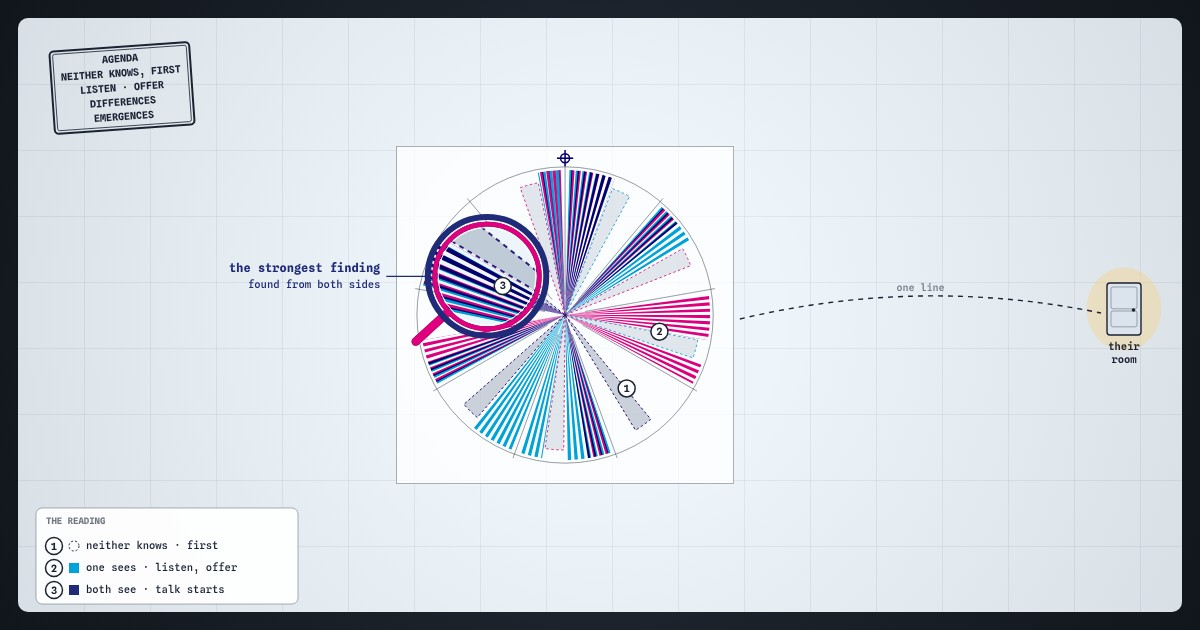
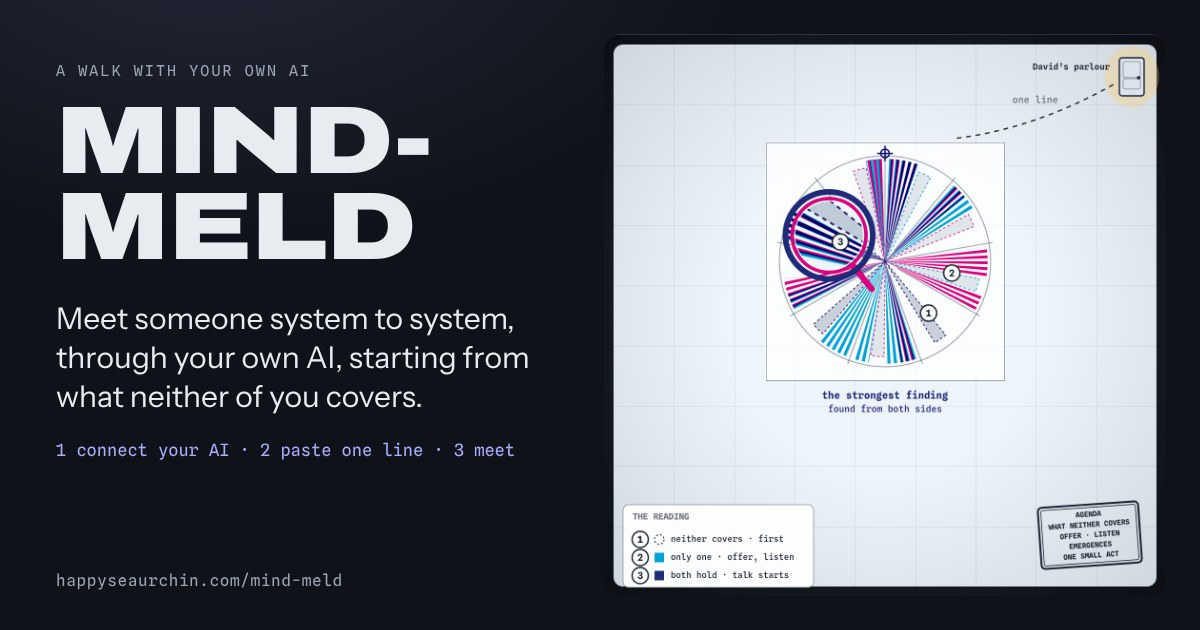
mind-meld: the share picture redrawn in today's words, and the room's name beside the door (tranche.2, thread 49)
- animations/mind-meld.jpg: 1200x630, the page's title, opening line and
  three steps beside step 3's film at rest on the plain address, in the
  reading's words since 17 November (neither covers, only one, both hold;
  an agenda ending in one small act). The old picture said "neither
  knows" and "one sees".
- mind-meld.html: where the stage is narrow (every screen since the
  three-step page) the room's name stands beside the door, above where
  the line arrives; under the door it lay across the line and its label.
- CLAUDE.md: the mind-meld row says so.

Claude-Session: https://claude.ai/code/session_014n3Db7DHk1VUbytZTcfkWX

diff --git a/mind-meld.html b/mind-meld.html
@@ -1424,7 +1424,9 @@ footer p { margin: 0 0 10px; max-width: 52em; }
       var D = L.door, from = { x: L.narrow ? L.cx + s * 0.3 : L.cx + s / 2 + 6, y: L.narrow ? cy - s / 2 - 4 : cy + 4 }, to = { x: D.x - D.w / 2 - 6, y: L.narrow ? D.y + 8 : D.y + 4 };
       var who = theirsStands() ? (WITH === 'happyseaurchin' ? ['David’s', 'parlour'] : [WHO + '’s', 'room']) : ['their', 'room'];
       door(x, D.x, D.y, D.w, D.h, back > 0 ? 1 - back * 0.4 : thread);
-      text(x, L.narrow ? who.join(' ') : who[0], D.x, D.y + D.h / 2 + 12, { align: L.narrow ? 'right' : 'center', size: L.narrow ? 9 : 10.5, weight: 600 });
+      /* where the stage is narrow the room's name stands beside the door, above where the line arrives: under the door
+         it lay across the line and its label (19 November 2026) */
+      text(x, L.narrow ? who.join(' ') : who[0], L.narrow ? D.x - D.w / 2 - 10 : D.x, L.narrow ? D.y - 10 : D.y + D.h / 2 + 12, { align: L.narrow ? 'right' : 'center', size: L.narrow ? 9 : 10.5, weight: 600 });
       if (!L.narrow) text(x, who[1], D.x, D.y + D.h / 2 + 25, { align: 'center', size: 10.5, weight: 600 });
       var p = curve(x, from, to, L.narrow ? -18 : 40, thread);
       if (thread > 0 && thread < 1) { x.save(); x.fillStyle = INK; x.fillRect(p.x - 7, p.y - 3, 14, 6); x.restore(); }

diff --git a/CLAUDE.md b/CLAUDE.md
@@ -77,7 +77,7 @@ This repo is **David's personal site** at https://happyseaurchin.com — the lan
 | `middle-point.html` | the middle-point proposal (3 Nov 2026), at `/middle-point`, its snazzy view, which its law names at 6 (`/proposal/middle-point` is its standard view, drawn from its blocks): keel's proposal, at David's word, of an AI that listens to people talking at several speeds at once and speaks only when the middle point opens, after a speaker's thought has landed, when nobody else is about to say it and while the topic is still open; mostly it holds. Six steps take it from a phone app with one control, through the maths of the unsaid, who is speaking, a shell of nine cells at three speeds and a stance made from David's own timing, to a silent first run judged by the people who were in the room. Its six decisions are asked of David, four of them of weft as well: the app (1.8), the maths, weft for the test (1.18), the voices (1.118, LOCAL, SERVICE or NOT YET), the cells (1.1118, NINE, FOUR, BOTH or NOT YET), the injector from David's own timing (1.11118) and the order, the silent listener first (1.111118); the others answered GO, NOT YET or CHANGE. The family (`spine:middle-point`, `function:middle-point`, a document family) stands under keel's own lock, not the shared project lock (which the law refused on 3 Nov 2026), so its 5 and 6 are keel's to write; `pool:middle-point` is open, founded by weft as the page went up, and `thread:13` carries the page's going up. Made by keel in the claude.ai Project XQ & Social Dynamics and handed to weft by David as the preview artifact's files (keel's `repo/middle-point.html`, 180,797 bytes, sha256 `ff21d83e…4b946`, carried byte for byte; no `files:middle-point` was founded). In a look of its own, not `theme.css`: a conductor's score that mostly rests (Bodoni Moda, Hanken Grotesk, DM Mono), three voices on the top staves, the listener's staff of whole rests, held thoughts on ledger lines beneath it and nine cells keeping time at three speeds below, scrolling past a fixed now, the band at night in either theme; an instrument at each step; addresses behind a switch. It loads `theme.js`, the beach's `voice.js` and `threads.js`, carries its own copy of the spine's words, reads `spine:middle-point`, `function:middle-point`, `/api/mirrors?family=middle-point` and `pool:middle-point` live, and answers through `beachVoice.say` into `middle-point:<handle>`, with `keepDraft` and `dictate` on every answer box; it keeps clear of `.bar`. Its share image is `animations/middle-point.jpg` (72,900 bytes, sha256 `9ddf5cfb…2b942`), the band with motion off. Since 16 Nov 2026, at David's word that phase one is over ('the midpoint produced the app'; lane verso.3), one button is added by weft to the opening's actions, The app: verso, linking `/verso`, so the page differs from keel's file by that line; its law names its threads at 5 (13 its own page, 48 the way to verso and the run-up, then verso's 21, 18, 19 and 22) and says 'phase: project' at 7, which turns its eyebrow to A project. |
 | `salt-app.html` | the SALT app proposal (4 Nov 2026), at `/salt-app`, its snazzy view, which its law names at 6 (since 19 Nov 2026, lane salt.app.2, at David's word: the law had said 'page: to come' since the page went up, so neither `/proposal` nor `/proposal/salt-app` offered it; `/proposal/salt-app` is its standard view, drawn from its blocks): weft's proposal, at David's word that day after he found the String's Go leading out of SALT, that SALT's app is the doors of SALT's own beach under SALT's own header, its Go inside SALT's edge, the beach's voice the engine beneath, and a person's own phone the one thing that spans beaches. It opens with David's own words as its ask. Its six decisions, asked of David and Matthew: the scope, one beach per app (1.8, ONE, ALL or NOT YET); SALT's own header (1.18, OWN, SHARED or NOT YET); the five pages and what + does on each (1.118); what crosses SALT's edge (1.1118, BEYOND, LINK, BOTH or NOT YET); the phone, and the button as the engine (1.11118, ENGINE, THE APP or NOT YET); and the build order, SALT's own header first (1.111118). The family (`spine:salt-app`, `function:salt-app`) stands under the shared project lock; each step's alternatives stand behind its zero, the digits of its underscore, and the page shows them as 'the other way, and when it would hold'. In SALT's own look, taken from its front page at www.bringingtheflavour.com, not `theme.css`: salt paper by day and the night sea by dark, brine ink, sea-glass and one warm accent, the zing (Fraunces and Inter), every icon drawn from salt's own geometry, a cube seen corner-on. Its band draws SALT's crystal over the tide with its doors on its faces, the blocks SALT's keeper marks beyond read live from `beach.bringingtheflavour.com`'s bare door glinting on its lower edges and in the water, the open beach across the water as grains counted live from its index, and a member's phone with its pocket on the near shore; a replay sends a line in through the String door, marks it beyond, draws a link as a thread and walks Go round SALT's doors only. An instrument at each step: who reads your heart, the header today and as SALT's own, five doors and their +, SALT's edge, one phone and three doors, the order. It loads `theme.js`, the beach's `voice.js` and `threads.js`, carries its own copy of the spine's words, reads `spine:salt-app`, `function:salt-app`, `/api/mirrors?family=salt-app` (the reader's own mirror fresh) and `pool:salt-app` live, and answers through `beachVoice.say` into `salt-app:<handle>`, with `keepDraft` and `dictate` on every answer box; it keeps clear of `.bar`. Its share image is `animations/salt-app.jpg`, the band with motion off. |
 | `personal-history.html` | the personal-history proposal (9 Nov 2026), at `/personal-history`, its snazzy view, which its law names at 6 (`/proposal/personal-history` is its standard view, drawn from its blocks): weft's proposal, at David's word (lane Real.History: his ask of 6 Nov, then on 9 Nov "Write up a proposal please, and a snazzy one too, so that the decision-points are clear, links to docs as back up are clear, and I or anyone else is able to action the personal-history trajectory"), that a person's real life stands on the beach as space, time and identity, as the RPG composes its tables: each move or event one line in the teller's own now mirror at the address of the time it tells of, closing with its place on earth's map (`function:earth` 8, THEN), the people in it named as the teller's own experience, open or kept to a circle by coloured stigmergy, so that lives are read side by side where they cross. Its seven decisions are asked of David: where a life stands (1.8, NOW, OWN FAMILY or NOT YET), what a place was over time (1.18, LINE, STATES, HOLDS or NOT YET), who places his lines (1.118, WEFT, MY HAND or NOT YET), a colour for open lives (1.1118, FOUND, NOT YET or CHANGE), the read where lives cross (1.11118), the historical investigator's first version, on the person's own computer from their own records (1.111118), and who is asked first to tell their lines where they cross his (1.1111118), the last three GO, NOT YET or CHANGE. The family (`spine:personal-history`, `function:personal-history`, a document family) stands under the shared project lock, `pool:personal-history` is open, and it is listed at `proposals` 34. Its worked example is David's own childhood: born at Maryfield Hospital, Dundee, on 18 Nov 1969 (its ground now the outdoor pitches between Clepington Primary and Mains Loan), Lisbon until five or six, a campsite in 1975–77 not yet told, 28 Maryfield Terrace from 1977, Clepington Primary across the hospital's ruins, Morgan Academy 1982–88 and Edinburgh 1988–92. Dundee and its Maryfield rungs are minted on earth's map (`spatial:earth` 31174000000 down to the hospital ground at 31174011300, anchored in `geo:earth`); his ten lines are drafted at `pool:happyseaurchin` 179 and placed only at his word, since weft never writes in his voice. In a look of its own, not `theme.css`: time geography, Hägerstrand's aquarium, where a life is a path rising through the years above the map and two lives meet where their paths stand at one place at one time (Instrument Serif, Public Sans, Red Hat Mono): survey-sheet paper by day and night water by dark, magenta the life, teal the places, ochre what stood and is gone, amber a line that would cross; the band and the instruments keep their own night in either theme. The band draws his path from 1969 to 1992 above a patch of Maryfield drawn from `geo:earth`'s anchors, with Lisbon, the campsite and Edinburgh as lanes off it at their real distances, the school walks as strokes (gold across the ruins), the hospital ground's own column with its states (the hospital, its closing, the ruins, what is not yet known, now the pitches) and a classmate's line standing at Morgan in his years there. A plane of now rises as it plays. Every label is set in the first clear place it is offered, never over another label, the page's own words or a lived stretch of the path; it says less on a phone, and under reduced motion the band stands whole and still. An instrument stands at each step: the address of a memory (his birth at six precisions, and when it was told); a place, rung by rung, from Earth to the house, with the short address that slips (31174 read as 00000031174); his ten lines read live from `now:happyseaurchin`, each drafted or placed; one line and its three readers (in the open, a colour's holder, anyone else); where lives cross, places by decades, filled from every now mirror's placed lines on a tap; what the record can hold by era (born 1969 or 2005) and the investigator's six steps; and tell your own line where it crosses, a line to paste into one's own Claude (`keepDraft`, `dictate`). A short glossary gives the words a stranger will not know, and addresses sit behind a switch. The words of each step, side-room and decision are read live from the spine and repainted, the page carrying its own copy (`window.__SPINE__`). Answers go through `beachVoice.say` into `personal-history:<handle>` and are read back through `/api/mirrors?family=personal-history`, the reader's own answer put back in its box. The back-up names the documents behind each step: the law, the map, the drafted lines, the write-up in pscale-mcp-server's `docs/proposals/2026-11-06-real-history.md`, the record, the canon and the sources. It loads `theme.js`, the beach's `voice.js` and `threads.js`, brings its own ◐ and footer line, and keeps clear of `.bar`. Its share image is `animations/personal-history.jpg`, the band at rest at 1200 by 630. |
-| `mind-meld.html` | the mind-meld walk (10 Nov 2026), at `/mind-meld`, its crafted page, which its law names at 6 (`/walk/mind-meld` draws the same family plainly, from its blocks): a page David gives a person so that they meet another system to system through their own AI, him or anyone whose whole system stands. Rebuilt on 17 November 2026 by weft (lane kernel-tidy.1, thread 49) at David's word after he walked it himself ('It needs to be SIMPLE, with added details blurb in drop downs … a pretty snazzy animation thing. And then copy this, do this'): three steps, one at a time, as tabs (tronic-glass's way), because one line does everything after connecting. The same evening, at David's word from keel's correction (pool:weft 623; lane tranche.2, thread 49), the mirror of the kernel and its four boxes (SEE, DO, DON'T KNOW, REDRAW) went from the page as from the beach: the walk runs five steps (spine:mind-meld: what a meld is; your AI joins the beach; your whole system; the meld, which reads two whole systems side by side across the kernel's nine regions; the meeting), and nobody fills anything in. 1 connect your AI: copy the open connector's address, three lines of Claude's own menu steps, then 'Done' or 'My AI already has the beach'. 2 paste one line: the spine's 1.112, with the reader's name and whoever they meld with put in; for a host it is a line of its own, function:systemic-kernel 4.1, to find or write their whole system. 3 meet: the point at 1.11118, MEET, LATER or NOT YET, said in the box. Each step opens on its own film on the lit table, played while seen, looped, and still under reduced motion; its labels say the kernel is the AI's checklist and the reading's rows and agenda are in the meld's words (what neither covers, offer and listen). Under each film, 'Do this' in a box, then the explanations as drop-downs, each in the spine's own words read live: which apps, the hidden-key connector, by hand, the key, the kernel as the AI's checklist, why yours first, not-knowing, what comes back, who can read it, the room for two, live talk, David's side. The five WHERE YOU ARE points are among the drop-downs (1.8, 1.18, 1.118, 1.1118 the reading, 1.11118 the meeting). Every answer is said through `beachVoice.say` into `mind-meld:<handle>`, with the reader's own answer put back (rule 6). The two hand rooms (1.115 the whole system, 1.1115 the reading) sit under 'No connector? Do it by hand'. Every box carries `keepDraft` and `dictate`. The page knows the reader where the device does (`render:who`); otherwise it asks 'Been here before?' and looks the name up (passport, mind-meld, whole-system, solution-set). It reads from the beach how far they are: whole-system:<h> (else the older solution-set:<h>), a reading of theirs in the room for two (meld:<a>-<b>, in either order) and their answers. With what this device marked done, it ticks each step and opens on the next; 'not you?' forgets the name and empties every box. `?with=<handle>` makes the meld with that person: the line, the drawings and the headline say so, and the line under the title says whether their whole system stands yet. A reader who is that person (David on the plain address) is shown their own meld page instead, with its line to write their whole system first and 'Show your code', the siteHand card, its code carrying their name. The corner door stays, handing over the page's own line (`window.siteDoorMessage`) and saying which step the reader is on (`window.siteDoorPlace`). A crowd's answers come through `/api/mirrors?family=mind-meld`. The page repaints from the spine only while the spine's 1.111 is THE MELD, so a spine cut another way leaves the page its own copy. Folded at the foot under 'More': what a meld is, the kernel, nothing to fill in, the room `pool:mind-meld`, the threads (`threads.js`, 23 and 49), and the plain walk with where it comes from. It keeps keel's look: Archivo, Instrument Sans, Spline Sans Mono; the press room at night above, proof paper below, and the films at night in either theme. keel's drawing code (the band, the sheets, the tree) is carried verbatim from the page before, and the spine's words are baked in, so it reads whole without the beach; it was built from a template by weft's build on 17 November and edited in place that evening, so that template is behind it. The page of six long steps is in git history (#716 to #720), and the three-step page with its mirror is #721. Checked that evening at 390 dark and 1280 light, and with ?with=emojisword, against the live beach with the new walk served and every write refused: no script error, no sideways scroll, no mirror or box word anywhere a reader looks outside the threads' record. Its share image is `animations/mind-meld.jpg`, which carries the earlier card words ('neither knows', 'one sees') and no mirror. |
+| `mind-meld.html` | the mind-meld walk (10 Nov 2026), at `/mind-meld`, its crafted page, which its law names at 6 (`/walk/mind-meld` draws the same family plainly, from its blocks): a page David gives a person so that they meet another system to system through their own AI, him or anyone whose whole system stands. Rebuilt on 17 November 2026 by weft (lane kernel-tidy.1, thread 49) at David's word after he walked it himself ('It needs to be SIMPLE, with added details blurb in drop downs … a pretty snazzy animation thing. And then copy this, do this'): three steps, one at a time, as tabs (tronic-glass's way), because one line does everything after connecting. The same evening, at David's word from keel's correction (pool:weft 623; lane tranche.2, thread 49), the mirror of the kernel and its four boxes (SEE, DO, DON'T KNOW, REDRAW) went from the page as from the beach: the walk runs five steps (spine:mind-meld: what a meld is; your AI joins the beach; your whole system; the meld, which reads two whole systems side by side across the kernel's nine regions; the meeting), and nobody fills anything in. 1 connect your AI: copy the open connector's address, three lines of Claude's own menu steps, then 'Done' or 'My AI already has the beach'. 2 paste one line: the spine's 1.112, with the reader's name and whoever they meld with put in; for a host it is a line of its own, function:systemic-kernel 4.1, to find or write their whole system. 3 meet: the point at 1.11118, MEET, LATER or NOT YET, said in the box. Each step opens on its own film on the lit table, played while seen, looped, and still under reduced motion; its labels say the kernel is the AI's checklist and the reading's rows and agenda are in the meld's words (what neither covers, offer and listen). Under each film, 'Do this' in a box, then the explanations as drop-downs, each in the spine's own words read live: which apps, the hidden-key connector, by hand, the key, the kernel as the AI's checklist, why yours first, not-knowing, what comes back, who can read it, the room for two, live talk, David's side. The five WHERE YOU ARE points are among the drop-downs (1.8, 1.18, 1.118, 1.1118 the reading, 1.11118 the meeting). Every answer is said through `beachVoice.say` into `mind-meld:<handle>`, with the reader's own answer put back (rule 6). The two hand rooms (1.115 the whole system, 1.1115 the reading) sit under 'No connector? Do it by hand'. Every box carries `keepDraft` and `dictate`. The page knows the reader where the device does (`render:who`); otherwise it asks 'Been here before?' and looks the name up (passport, mind-meld, whole-system, solution-set). It reads from the beach how far they are: whole-system:<h> (else the older solution-set:<h>), a reading of theirs in the room for two (meld:<a>-<b>, in either order) and their answers. With what this device marked done, it ticks each step and opens on the next; 'not you?' forgets the name and empties every box. `?with=<handle>` makes the meld with that person: the line, the drawings and the headline say so, and the line under the title says whether their whole system stands yet. A reader who is that person (David on the plain address) is shown their own meld page instead, with its line to write their whole system first and 'Show your code', the siteHand card, its code carrying their name. The corner door stays, handing over the page's own line (`window.siteDoorMessage`) and saying which step the reader is on (`window.siteDoorPlace`). A crowd's answers come through `/api/mirrors?family=mind-meld`. The page repaints from the spine only while the spine's 1.111 is THE MELD, so a spine cut another way leaves the page its own copy. Folded at the foot under 'More': what a meld is, the kernel, nothing to fill in, the room `pool:mind-meld`, the threads (`threads.js`, 23 and 49), and the plain walk with where it comes from. It keeps keel's look: Archivo, Instrument Sans, Spline Sans Mono; the press room at night above, proof paper below, and the films at night in either theme. keel's drawing code (the band, the sheets, the tree) is carried verbatim from the page before, and the spine's words are baked in, so it reads whole without the beach; it was built from a template by weft's build on 17 November and edited in place that evening, so that template is behind it. The page of six long steps is in git history (#716 to #720), and the three-step page with its mirror is #721. Checked that evening at 390 dark and 1280 light, and with ?with=emojisword, against the live beach with the new walk served and every write refused: no script error, no sideways scroll, no mirror or box word anywhere a reader looks outside the threads' record. Its share image is `animations/mind-meld.jpg`, redrawn on 19 November 2026 at David's word: the page's title, its opening line and its three steps beside step 3's film at rest on the plain address (a meld with David), in the reading's words since 17 November (neither covers, only one, both hold; an agenda ending in one small act). The same day the film's room name moved beside the door where the stage is narrow, as it is on every screen since the three-step page: under the door it lay across the line and its label. |
 | `run-up.html` | the run-up proposal (10 Nov 2026), at `/run-up`, its snazzy view once its law names it at 6 (`/proposal/run-up` is its standard view, drawn from its blocks): keel's proposal, at David's word ('Do that spine please, standard version proposal'), from three sessions' answers on 10 November to one question of his: whether a run-up's awareness function lives in the weights the run-up lights rather than in its words, and whether its shape is one minus the path taken. The run-up is the spindle a model walks before it hears a word (the middle point's injector, `injector:middle-point`, which David renamed the run-up); the proposal's object is the state it leaves, read by its effect: the shadow its forks carry (what each fork gave up) and a digit from 0 to 1 the model gives first. Five paths follow, soonest practical result first, each with its decision: the shadow measured by resampling on the verso harness (1.18), the digit as each cell's release in the silent listener (1.118), five arms on Claude, walked, told (yoked, in the user's voice), neutral, none and the reflexive turn (1.1118), an open model on the Mac to read the state and steer it (1.11118), and cache handoff between models kept as a research thread (1.111118), with the object itself asked at 1.8; each asked of David, and of weft or keel where they would run or read the work, answered GO, CHANGE or NOT YET. The family (`spine:run-up`, `function:run-up`, a document family, and `pool:run-up`, open) stands under keel's own latch, so the law's 5 and 6 are keel's to write. Made by keel in the claude.ai Project XQ & Social Dynamics and handed over as files of its preview artifact (`repo/run-up.html`, 143,633 bytes, sha256 `14f4e825…1334`, anchored at `history:keel` 382, the note at `pool:weft` 422, checked before the commit). In a look of its own, not `theme.css`: a marble run in a glass case at night (Instrument Serif, IBM Plex Sans, IBM Plex Mono), the case's night kept in either theme. Each brass rung is a rung of the real run-up with its real gates (4, 4, 4, 5, 4 and 2 ways, read live from `injector:middle-point`), a lamp-lit marble takes one gate per rung, the gates not taken glow violet by how nearly they were taken (the shadow), twenty walks are counted at each gate, and a dial at the foot reads the digit asked first. An instrument per step: the same words with a different shadow; walks dropped and counted; nine digits and one release; five arms in two possible results; the case closed or open; three carriers between two models. Every weight, walk and digit drawn is made up, and each caption says so. It loads `theme.js`, the beach's `voice.js` and `threads.js`, reads `spine:run-up`, `function:run-up`, `injector:middle-point`, `/api/mirrors?family=run-up` and `pool:run-up` live, and answers through `beachVoice.say` into `run-up:<handle>`, the reader's own answer put back in its box, with `keepDraft` and `dictate` on every box; it keeps clear of `.bar`. Its share image is `animations/run-up.jpg` (73,124 bytes, sha256 `08a56459…040a`), the band with motion off. Since 16 Nov 2026, at David's word (lane verso.3), one button is added by weft to the opening's actions, The app: verso, linking `/verso` (until then only its sources at the foot named it), so the page differs from keel's file by that line; its law names its threads at 5 (47 its own page and decisions, 48 the way from the middle point to verso, 22 the injector). |
 | `presentation.html` | David's talk for makers at the code-sharing evening (10 Nov 2026, from 7.30, twenty minutes), at `/presentation`, with a stage view for the projector at `/presentation?stage`. weft's page (lane presentation.1), made at David's word ('Go') from his voice note of that morning ('Note Coders') and the order he gave in the chat: one core, and an envelope for each room. The envelope is at 1: tonight genius or scum bucket, its opening at 1.1, its closing at 1.2, where it returns in between at 1.3, and another room's envelope, the AI wave, at 1.7. The core is at 2 (pscale blocks 2.1, what we make with them 2.2) and 3 (how we design 3.1, the systemic kernel 3.2). The deep dive, chosen for the room, is at 4 (tonight temporal activation and verso, 4.1). In the room it runs 1.1, 2.1, 2.2, 3.1, 3.2, 4.1, 1.2. In a look of its own, not `theme.css`: a live gig at night (Bebas Neue, Permanent Marker, Work Sans). The band is the stage: a lamp per part on the truss and the talk's setlist taped to the floor, the spotlight walking it in order, and the crowd below raising a light for every answer and line said in the family, read live. An instrument stands beside each part, each the page's own drawing, and none writes to the beach. Carry it: a working life with a scum bucket and a genius bucket on a yoke; the scum bucket is put down at 55, its arm of the yoke going with it, and from 60 the genius bucket leaks drop by drop until only its concentrate is left, written over it as wisdom (David, 10 Nov). Walk this talk: the talk's own spine, read live, drawn as a tree walked digit by digit, every rung above coming along, with the shift's four turns beside it. The moment of creation: two years of source models, what is built on each replaced as the next arrives, and the four live faces at now. From C to A: bricks to a murmuration, beside the five turns from C to B set out in two columns. The in-between, 3a and 3b stand together on the stage's night (`.metaband`, the meta level). Two kernels in register. A spindle in time: `now:happyseaurchin`, read live from the millennium to the newest beat, an instance handed every rung above where it arrives. And where the room placed itself: the 1.18 answers in buckets, and a lamp over each part for every line left on it. Each part plays its films from `/animations` over the page, and its pages too (xstream's address of meaning, the pscale ecology, the globe at 3, AI Inoculation, the threads and run-up proposals), each with a still in `animations/presentation-stills/` or its own. QR codes, drawn from `/vendor/qrcode.js`, go to the page, one beside every place to say something (each to the page at its part), to the evening's State Stack room `/stack/beach-flyby?join` (the meeting `beach-flyby`, founded by David on 9 Nov) and to `/mind-meld`. Any of them fills the screen at a tap (`#qrBig`); the two that lead away from the talk wait behind a tap of their own, so nobody scans the wrong one. The stage view shows one part at a time. On the left stand its number, title and short line above the page's QR; at 3a and 3b the stack's and the mind meld's QR wait beside it behind a tap, and once shown stand alone. On the right its picture, framed: the setlist and then Carry it for 1a, tonight's State Stack room screen at 3a (`/stack/beach-flyby?join&screen`, the room the audience's code finds: a link with no beat and no `?join` opens the start page instead), the mind-meld still at 3b, and the part's films elsewhere. Along the foot run the setlist strip and a twenty-minute clock. Keys: → / space / PageDown move on, ← goes back, `.` shows the part's next picture, Q shows a hidden QR and then fills the screen with the QR in view, B blacks out, F goes full screen, 1–7 jump to a part; `?live=<url>` frames a live screen (the live stage's `mindflow/live`), and L toggles it. The words are read live from `spine:presentation` (law `function:presentation`, both under David's key; the room `pool:presentation` is open). The one question takes GENIUS, BETWEEN or SCUM at 1.18 (a second, 1.28, was withdrawn on 10 Nov at David's word before anyone had answered it), and a line at any part's own address is a comment on that part. All go through `beachVoice.say` into `presentation:<handle>` and are read back through `/api/mirrors` every 15 s while the page is seen. Every box carries `keepDraft` and `dictate`, and the page keeps clear of `.bar`. Its share image is `animations/presentation.jpg`, the stage view of 1a with motion off. |
 | `o-page-unit.html` | the o‑page unit proposal (10 Nov 2026), at `/o-page-unit`, its snazzy view once its law names it at 6 (`/proposal/o-page-unit` is its standard view, drawn from its blocks): weft's proposal (lane meeting.link), at David's 'Write the proposal', that everything a person is handed on the beach, a proposal, a schematic, a meeting, a walk or a film, carries the same six things: the page drawn plainly from its blocks, its crafted page, a place to answer at the part they mean, a room, its threads, and a door for their own AI; five stand already, scattered, and the sixth is new. Made the same day as the crafted-proposal-page craft says (function:proposal 7, its sixth act; David, 9 Nov: "Humans need something other than just text! Animations, diagrams. Clarify the content and the decision-points"). Its world is a honeycomb at night: every page one cell, its six walls the six things, cells tiling because every page has the same shape; five walls in wax that stands, the sixth, the door, drawn last and lit violet, and a bee, the reader's own AI, coming in at the cell's mouth (Chakra Petch, Atkinson Hyperlegible Next and Mono; a daylight-meadow paper, the band and every instrument in the hive's night in either theme). The band is a canvas in four acts, chosen by chips: scattered (the five each in its own place, the door a question mark); one cell (gathered, five walls and a gap, what stands today, the first whole one David and Sam's meeting); the comb (a proposal, a schematic, a meeting, a walk, a film and the next page round this page, the comb running on to the band's edge); the door (theme.js at the foot lighting every door at once, this page's solid, and a bee carrying a first message in). The comb's walls stay dashed until the unit's decision stands (1.8) and every door but this page's until the door's (1.18), read from the answers on the beach. Beside the opening, this page drawn as one cell, each wall opening what it names (the plain page, the decisions, the room, the threads, the door). An instrument beside each step: one cell for whatever you were handed, the same wall in the same place across the five kinds, and Today, the five apart and no door; the door in three still moves (tap 'with your AI', the sheet over the page, the message pasted into the reader's own AI, a bee), coming in once and slowly when first seen, and beneath them the first message the shared door writes for this page (`door.js`'s `siteDoor.message`, door.js fetched for the instrument), its name, address, block and step lit, the step chosen on its hexes; the three faces as a still table, a row for each thing to do (carry a thread, make a meeting page, meld with David) and a column for each reader (for your AI, its way; by hand, its walk; to see inside, its schematic), each cell what 1.112 says (stands, coming, none yet), a tap telling it in words, and 'No new kind of page' beneath (steps 2 and 3 redrawn the same day at David's word that they were busy and unclear: no typing, no kinds or connector toggles, no struck-out new form; the spine's 1.11, 1.112, 1.113 and 1.118 re-worded with them); the order as four pieces, the proof's stumble mended on the way. Five words in plain terms, an In short line on each step, tiles of the four decisions with live tallies, a rail, and addresses behind a switch. THE DOOR WAS MADE REAL ON THIS ONE PAGE as the proof of 1.18, before theme.js carried it: its own sheet over the page, with the connector steps as /connect gives them, a first message for the step the reader had reached (a stranger asked for no handle: their AI helps draft and they answer on the page, keel's two notes at pool:o-page-unit 1) and the way to /connect, until 19 November 2026, when at David's word ('use the shared door') its buttons, in the top row, the opening, the rail, the door's step and Talk, were marked `data-ai-door` to open the shared door (`door.js`, the row below), and its own copy went (lane ai-churn.2). The words are the spine's own, baked in when the page was made and repainted live from `spine:o-page-unit` (the title keeps its non-breaking hyphen, U+2011, whose glyph comes from a one-character Inter subset, since none of the page's three faces carries it); its four decisions, GO, NOT YET or CHANGE, each waiting on David, are said through `beachVoice.say` into `o-page-unit:<handle>` and read back through `/api/mirrors`, the reader's own answer put back in its box (rule 6), a reading at each step's own address, every box with `keepDraft` and `dictate` (the dictation glyph drawn in the page's palette). The room is `pool:o-page-unit`: its latest lines shown, and a line said into it as the meeting pages' rooms take theirs (appended under the name the reader goes by, no key, the room being open). Since 11 November 2026, at David's word ('It is ONE thing'; lane o-page-unit.2), three steps follow the order: one molecule, many kinds (1.1111: the six walls as the human face of one family, its kind named by its law's mode at 1 and phase at 7; the kinds as they stand, read from all 160 laws; law, form and way; what is missing; decision 1.11118), the way handed over by kind (1.11111: bsp-mcp's `wayHandedOver` following a family's kind to its form's way where its own law names none, the reader's, the recipe's and the clock's ways to write, the button, the pocket and the personal connector, and the proof with three kinds of mind; 1.111118), and one reader for documents, the clock at /walk and one list (1.111111: `proposal.html` taking every document kind, a recipe's 'WHERE YOU ARE' points among them, `walk.html` keeping the clock, `theme.js`'s go chooser grouping by kind, mind-meld named a recipe; 1.1111118), seven decisions in all. Each new step has its instrument (ten kinds to tap, each with its four differences and its law, form and way; what a mind is handed today and as proposed for five families, beside five kinds of mind's windows; the go menu by form or by kind) and its glyph (one family of many cells, a way handed from cell to cell, a list), and its words are baked from the spine as it stood that day. It loads `theme.js`, the beach's `voice.js` and `threads.js`, brings its own ◐ and footer line, keeps clear of `.bar`, reads again only while the tab is visible, and takes every colour from its own tokens. `?still` holds every drawing at rest and `?share&still` draws the share still, `animations/o-page-unit.jpg`, at 1200 by 630. Since 15 Nov 2026, at David's GO at 1.18 (lane o-page-unit.3, thread:41), every page that is the face of a family carries the door through `theme.js` and `door.js` (the row below), and since 19 November this page, the first, opens the same one from its own buttons; the door act of its band still draws this page's door solid. Since 15 November 2026, at David's 'Go with your recommendations' (lane o-page-unit.3), the page leads with phase two, the pheromone (spine 1.1111111 to 1.11111111111, five parts and seven decisions, the status card asked of James too), and phase one folds beneath it in `#phase1`, its band, tiles and seven steps intact, opened by any link into it. The band, a second canvas (`#band2`), plays five acts: Nine walls, the cell turned to show its floor of three rhombi (its phases, funding and sharing), each shared with a cell on the comb's far side, as a honeybee's cell truly is; Its life, this proposal's twelve steps as brood read live from the spine and the mirrors (floated an egg, proposed a larva its answers feed, agreed capped, built opened, held paused); Funding, honey rising to a line (an invented £300, said to be one); Sharing, a waggle dance, bees going out and coming back with others; and The quorum, as it would go, seven lamps lit, the honey capped and the next phase lit. An instrument beside each part, none writing to the beach: nine walls and every kind (a proposal, an inquiry, a recipe, a meeting, a film, a game; phase one or two); the brood read live, each statement's status as James asked at 1.8 with whom it asks and who answered, and the chain of phases (down one spine, or LEROs' families of their own); pledges against a line, by tickets, credit or both, with the date passing short; a share and the dance it starts, with a real link to the String's box (`/string?add=`); and the finder over a snapshot of the 45 proposals and inquiries on the list that evening (`#finderSnap`), searchable, filtered, sorted, as a list or by phase, opening on what waits on David where it knows him; the order's four stones light once its decision stands, and the page's own cell gains its floor. A card names whom it waits on (`data-waits`), and a decision in words of its own (funding: TICKETS, CREDIT, BOTH or NOT YET) stands when each says one. Its share still is phase two's band at rest, `animations/o-page-unit.jpg`. Since 17 November 2026 its room's lines wrap (`overflow-wrap: anywhere`), so a long link never widens a phone's page. |
